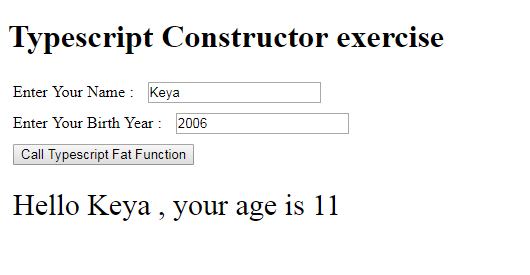
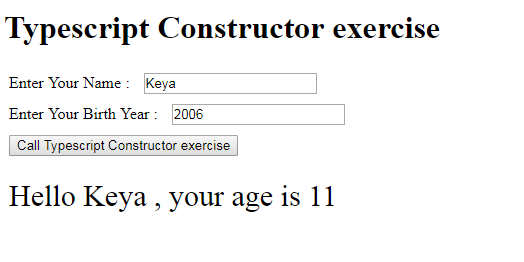
typo correction

diff --git a/constructor.html b/constructor.html
@@ -22,7 +22,7 @@
             <br>
 
             <!-- onclick event calls Typescript wrapper Function which uses class as per assignment-->
-            <button onclick="giveUserAge()" style ="margin:5px;">Call Typescript Fat Function</button>
+            <button onclick="giveUserAge()" style ="margin:5px;">Call Typescript Constructor exercise</button>
             <br>
             <br>
             <label id="lblMessage" style ="margin:5px;font-size: 30px;"></label>
